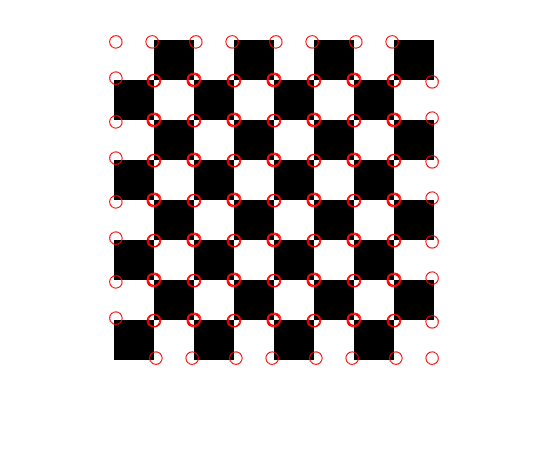
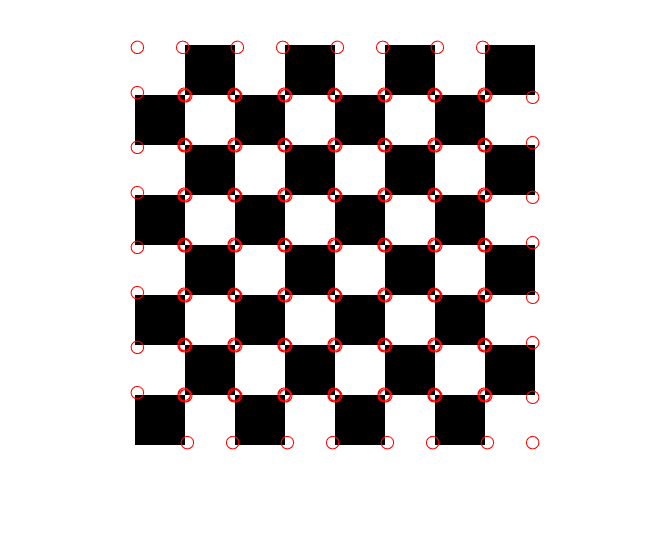
more progress lab7

diff --git a/CSE185_Lab7/Harris_corner_detector.m b/CSE185_Lab7/Harris_corner_detector.m
@@ -16,10 +16,10 @@ function [corner_x, corner_y] = Harris_corner_detector...
     
     
     %% Use derivative of Gaussian to compute x-gradient (Ix) and y-gradient (Iy)
-    Ix = imfilter(I, gaussian_kernel1)
-    Ix = imfilter(Ix, Dx);
-    Iy = imfilter(I, gaussian_kernel1);
-    Iy = imfilter(Iy, Dy);
+    Ix = imfilter(I, Dx);
+    Ix = imfilter(Ix, gaussian_kernel1);
+    Iy = imfilter(I, Dy);
+    Iy = imfilter(Iy, gaussian_kernel1);
 
 %     figure, imshow(Ix + 0.5);
 %     figure, imshow(Iy + 0.5);
@@ -38,7 +38,7 @@ function [corner_x, corner_y] = Harris_corner_detector...
 
     
     %% compute corner response from determine and trace
-    R = ((Sxx .* Syy) - (Sxy .* Sxy)) - alpha.*(Sxx + Syy).^2;
+    R = ((Sxx .* Syy) - (Sxy .* Sxy)) - alpha.*((Sxx + Syy).^2);
 
     %figure, imagesc(R); colormap jet; colorbar; axis image;
 
